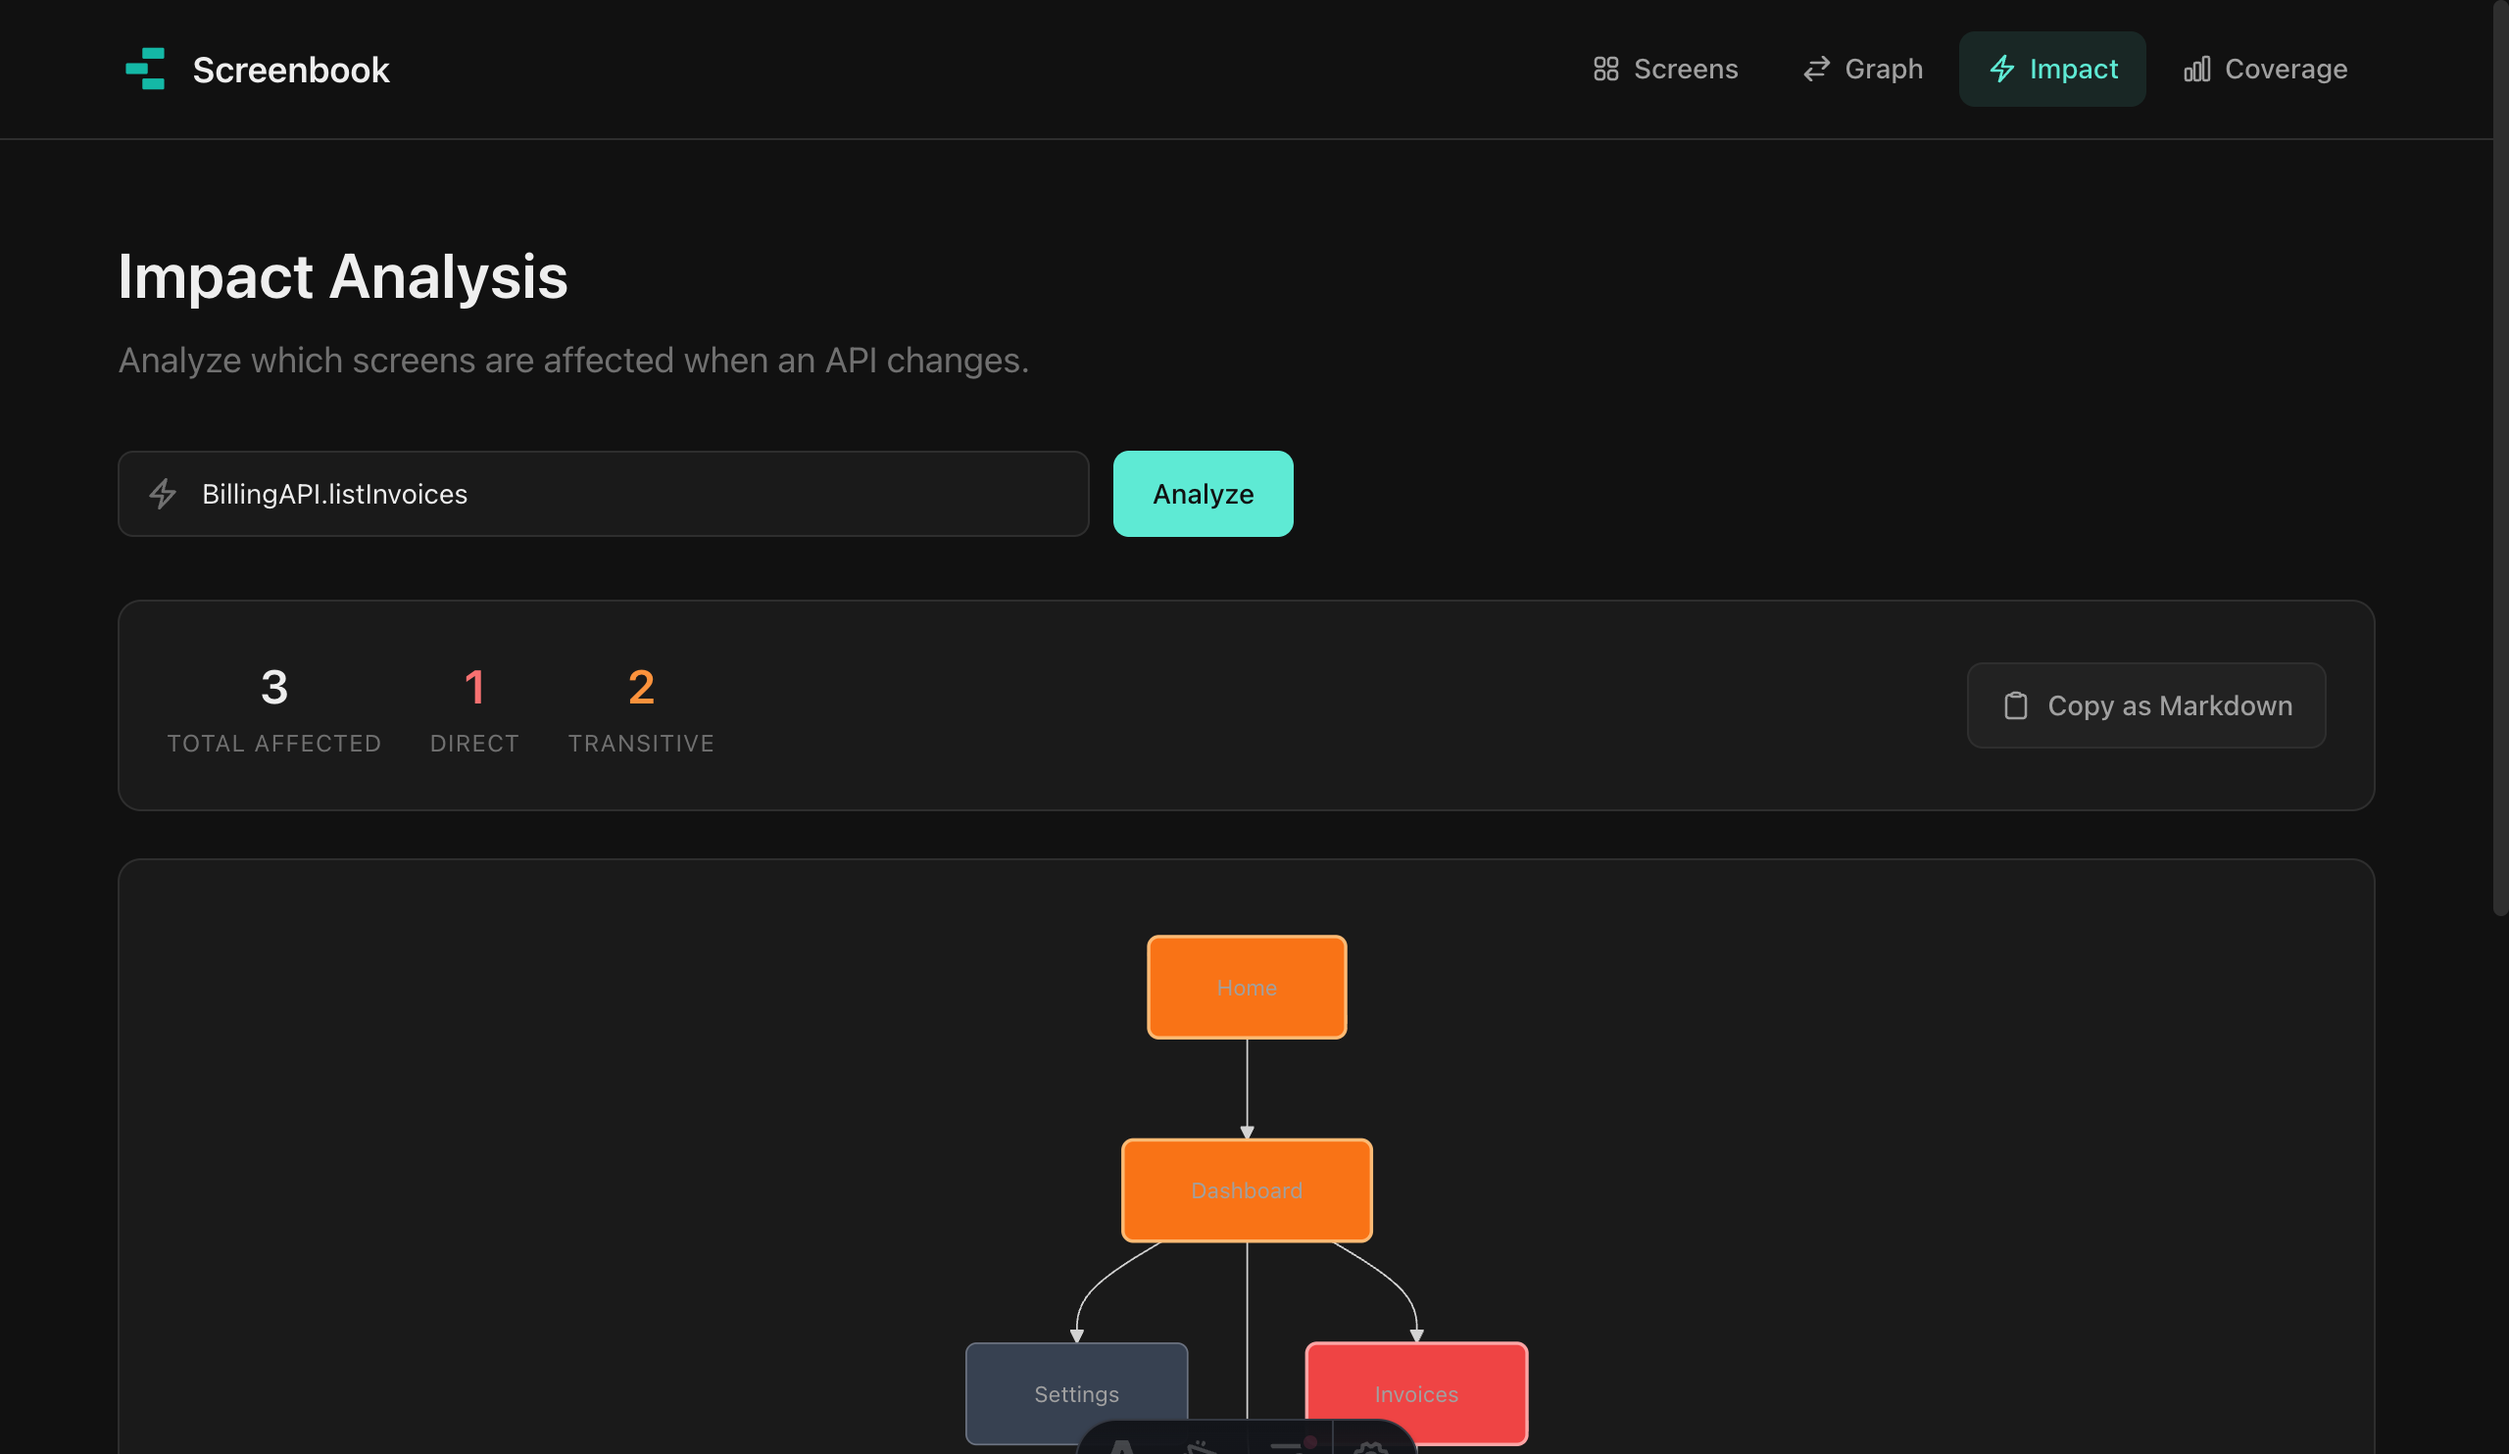
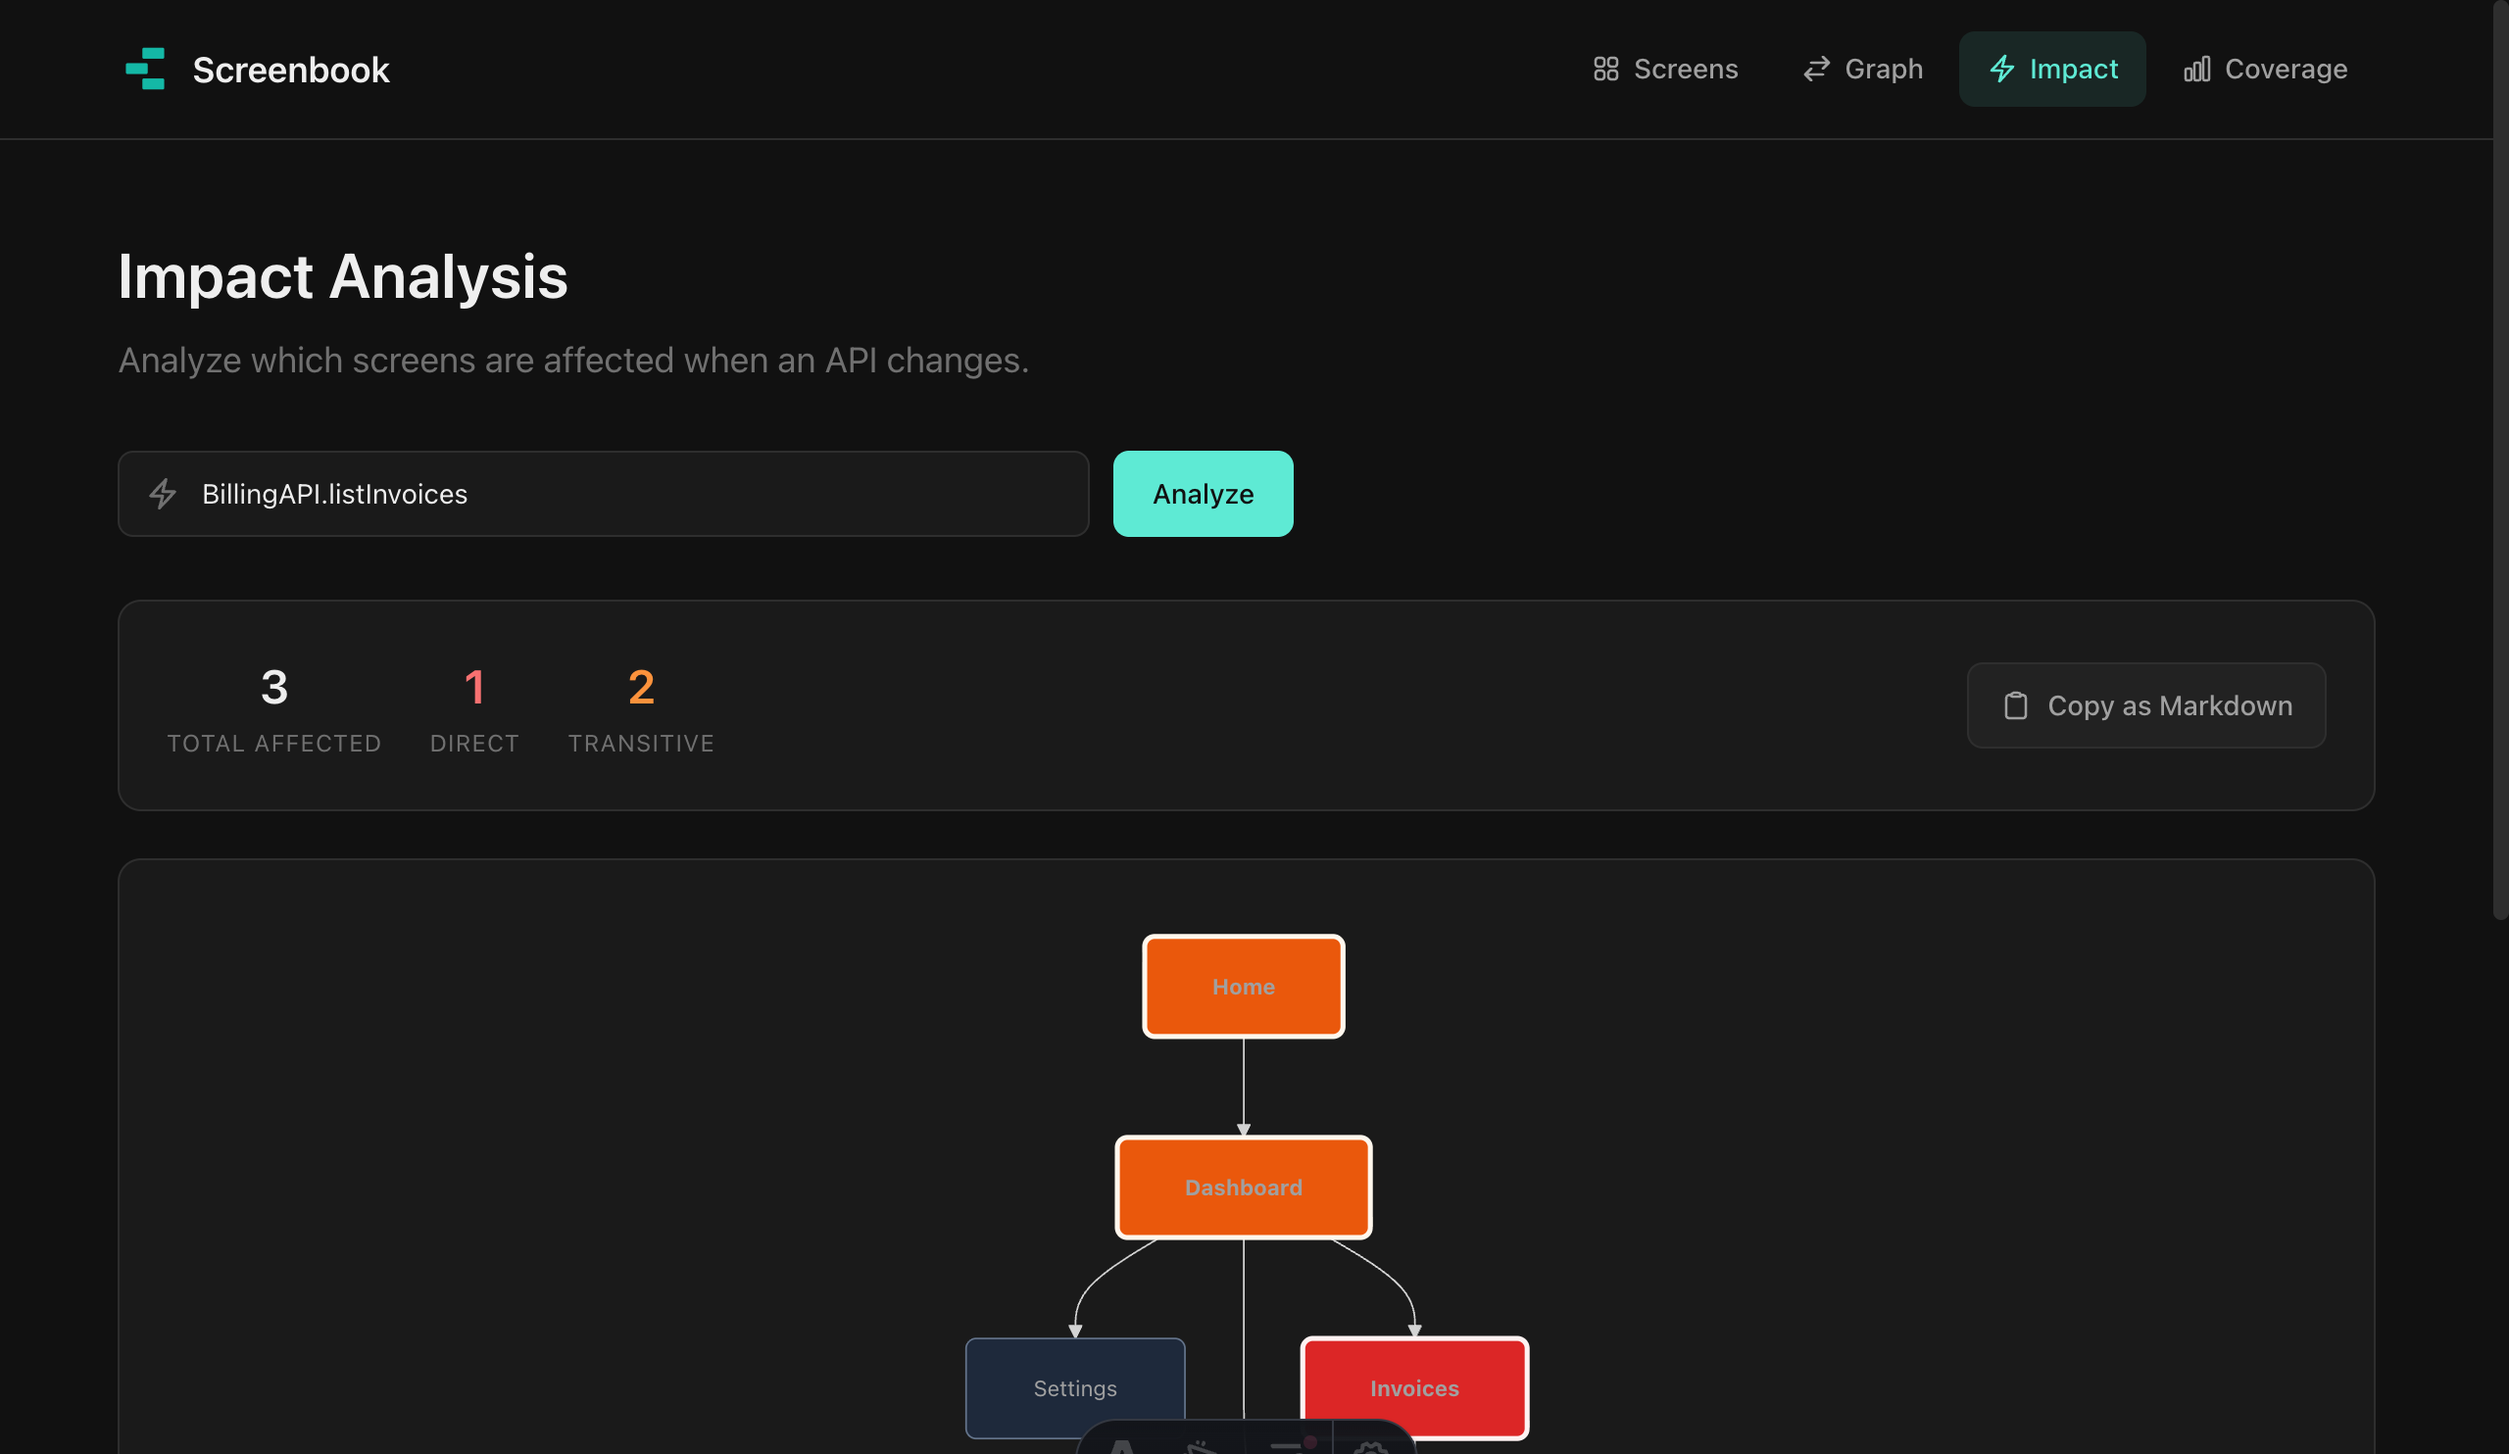
fix(ui): improve Mermaid graph contrast for better text readability
- Use darker, more saturated colors for direct (red) and transitive (orange) nodes
- Add font-weight:bold for affected nodes
- Use light strokes for better node visibility
- Update legend colors to match
- Update impact.png screenshot

Changed region(s): [[0.375, 0.8989, 0.625, 1.0], [0.4375, 0.7749, 0.5625, 0.8679], [0.4375, 0.6199, 0.5625, 0.7439]]

diff --git a/packages/ui/src/utils/impactAnalysis.ts b/packages/ui/src/utils/impactAnalysis.ts
@@ -204,10 +204,10 @@ export function generateImpactMermaid(
 
 	const lines: string[] = ["flowchart TD"]
 
-	// Define styles - high contrast colors
-	lines.push("    classDef direct fill:#ef4444,stroke:#fca5a5,color:#fff,stroke-width:2px")
-	lines.push("    classDef transitive fill:#f97316,stroke:#fdba74,color:#fff,stroke-width:2px")
-	lines.push("    classDef normal fill:#374151,stroke:#6b7280,color:#f3f4f6,stroke-width:1px")
+	// Define styles - high contrast colors with readable text
+	lines.push("    classDef direct fill:#dc2626,stroke:#fef2f2,color:#ffffff,stroke-width:3px,font-weight:bold")
+	lines.push("    classDef transitive fill:#ea580c,stroke:#fff7ed,color:#ffffff,stroke-width:3px,font-weight:bold")
+	lines.push("    classDef normal fill:#1e293b,stroke:#64748b,color:#e2e8f0,stroke-width:1px")
 
 	// Add nodes
 	for (const screen of screens) {
